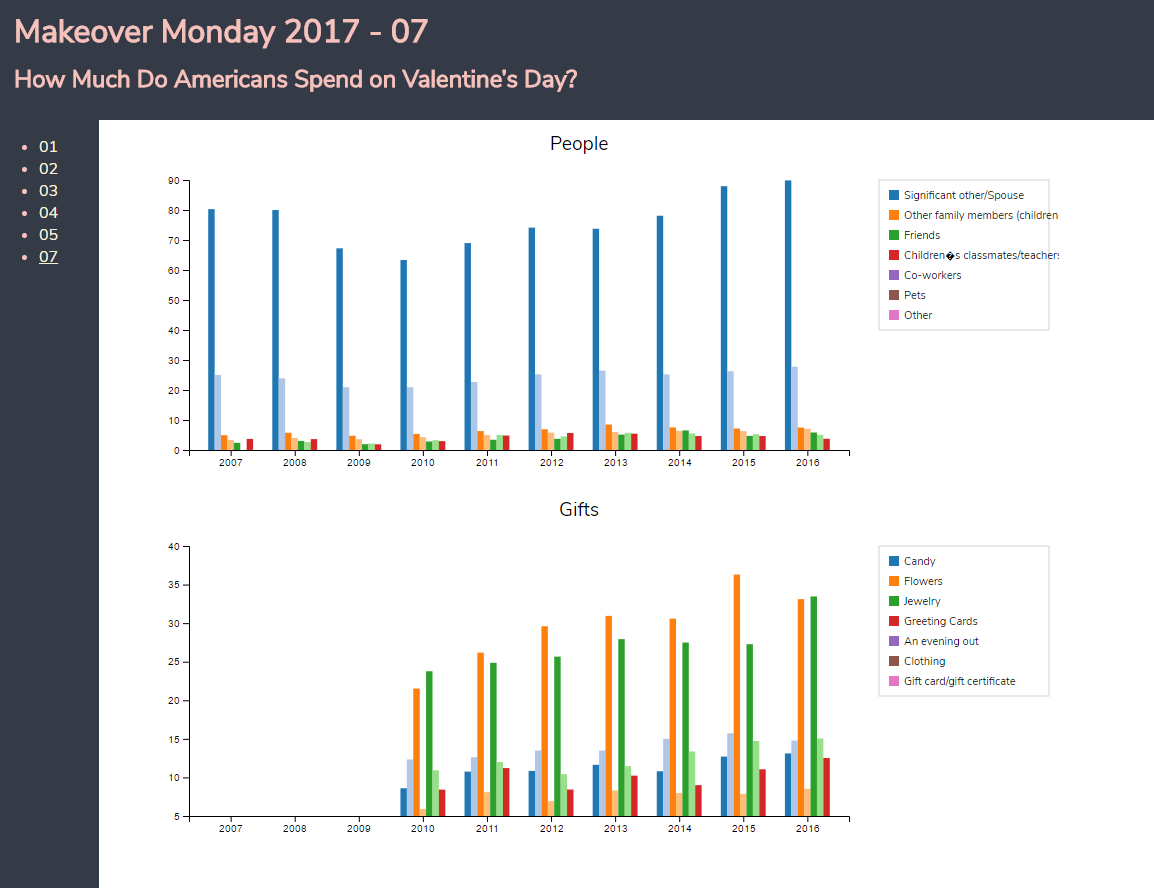
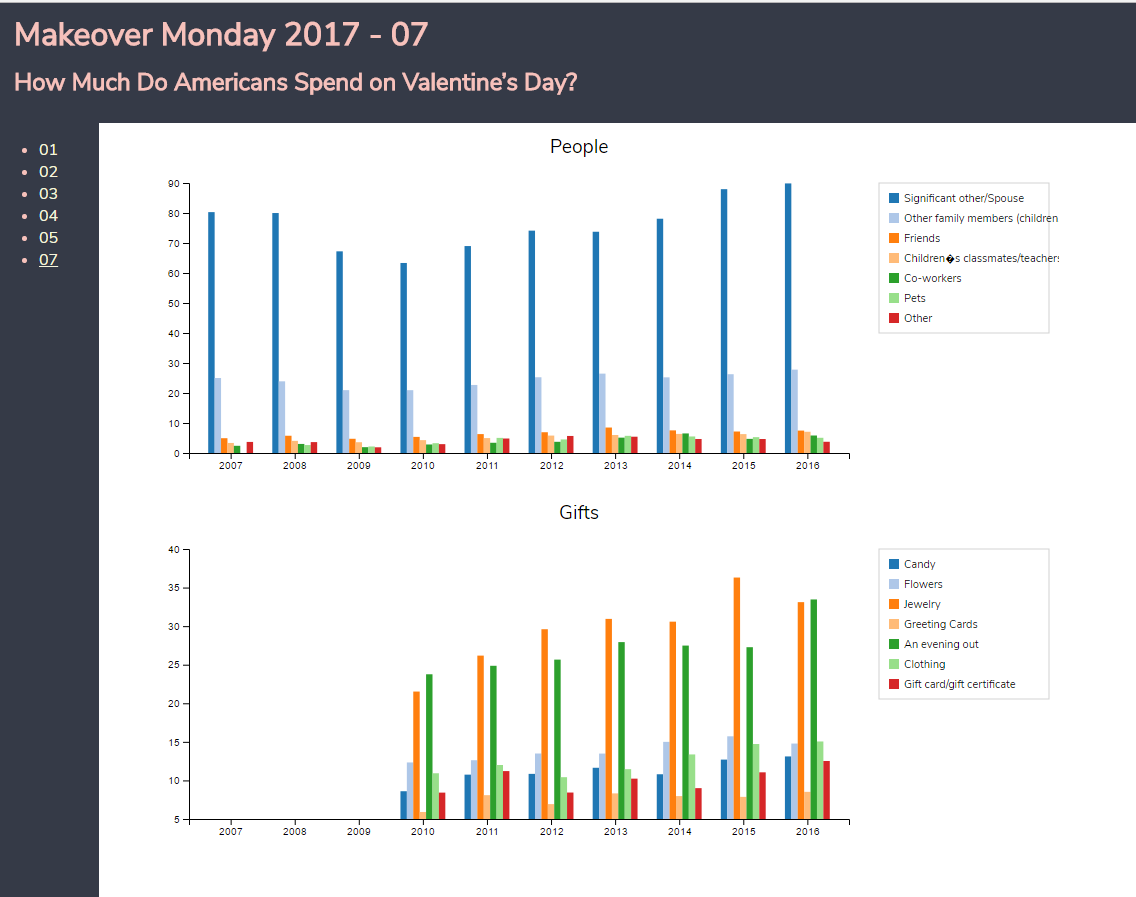
FIx

diff --git a/src/components/challenges/07/chart.ts b/src/components/challenges/07/chart.ts
@@ -13,6 +13,7 @@ export class MultiCategoricalChart<T> {
     private _seriesGroup: d3.Selection<any, any, any, any>;
     private _legend: Legend<string>;
     private _title: title;
+    private _colorScale = d3.schemeCategory20;
     constructor(selector: string, private _width: number, private _height: number) {
         let plotMargins = {
             top: 60,
@@ -35,10 +36,11 @@ export class MultiCategoricalChart<T> {
             .classed('legend-container', true)
             .attr('transform', `translate(${container.width() + plotMargins.left+plotMargins.right},${container.height()/2})`);
         this._legend = new Legend<string>(legendContainer, container.width(), container.height())
-            .color((d, i) => d3.schemeCategory10[i])
+            .color((d, i) => this._colorScale[i])
             .label(d => d);
         this._title = new title(container.parent(), _width, _height);
     }
+
     title(value: string): MultiCategoricalChart<T> {
         this._title.text(value);
         return this;
@@ -93,7 +95,7 @@ export class MultiCategoricalChart<T> {
             .attr('width', secondaryScale.bandwidth())
             .attr('height', (d, i) => this._plotHeight - this._yAxis.scale(this._y(d)))
             .attr('transform', (d: any, i) => `translate(${secondaryScale(this._groupBy(d))},${0})`)
-            .style('fill', (d, i) => d3.schemeCategory20[i]);
+            .style('fill', (d, i) => this._colorScale[i]);
         this._legend.update(secondaryScale.domain());
     }
 }
